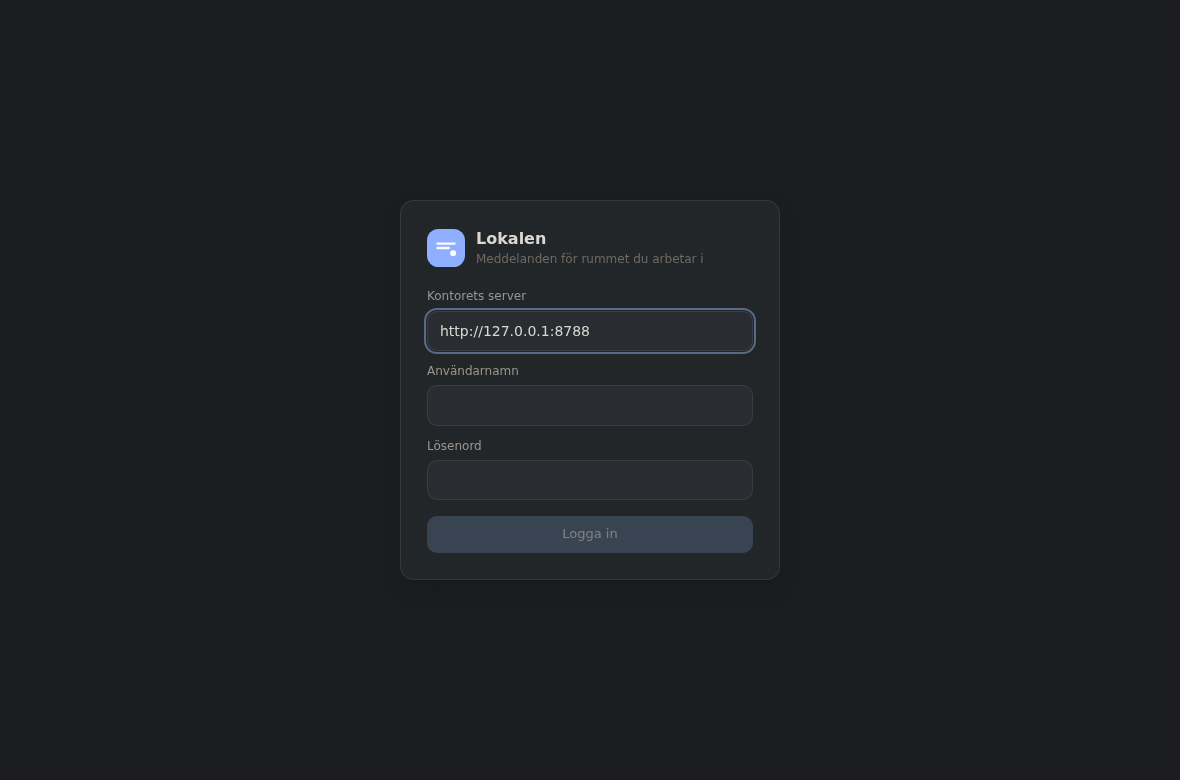
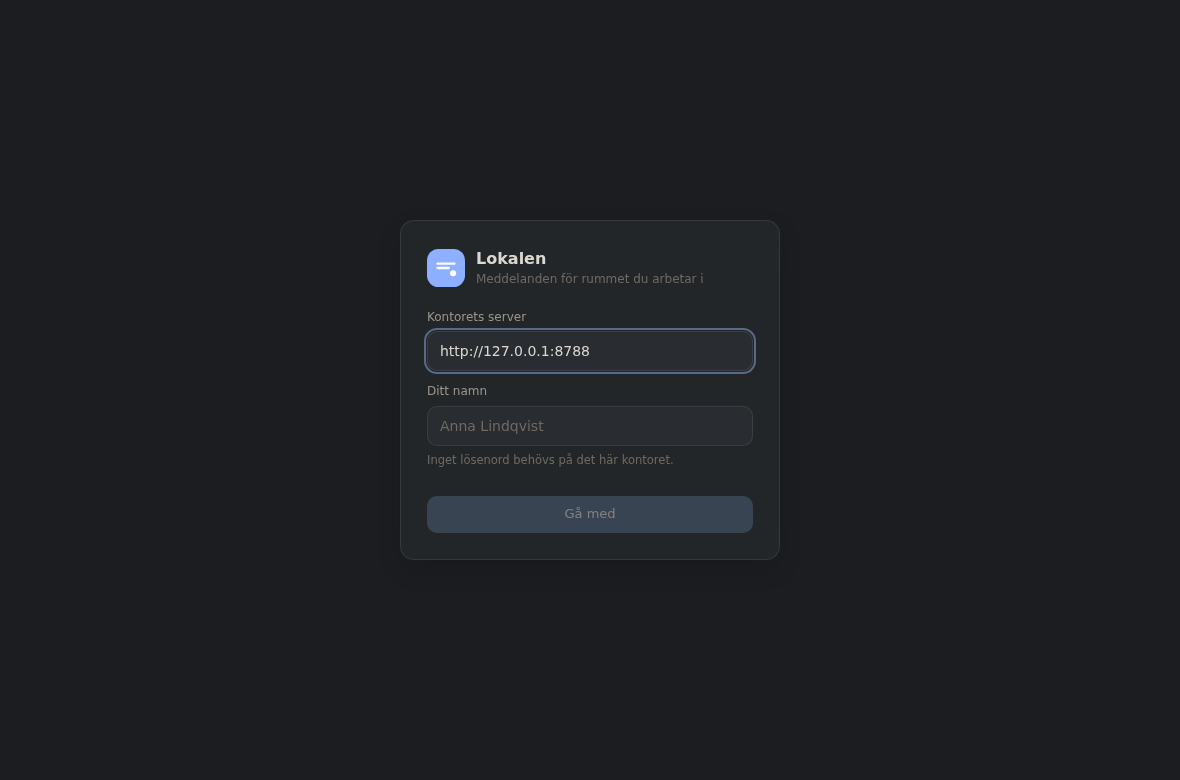
Show the name-only form while the office is still being probed
The sign-in screen asked the server which kind of office it is, then rendered
a username and password form until the answer arrived. Open is the default
mode, so the common case flashed the wrong two fields at everyone for a moment
and kept them on screen entirely whenever the probe did not answer.

It now assumes an open office until told otherwise. The submit path reads the
same value as the rendering does, which the first version of this fix did not:
it rendered a name field while still submitting through the password login,
so joining silently failed.

Changed region(s): [[0.3356, 0.2769, 0.6407, 0.5231], [0.3356, 0.5538, 0.6407, 0.7077], [0.3966, 0.5231, 0.4576, 0.5538]]

diff --git a/lokalen/apps/desktop/src/components/SignIn.tsx b/lokalen/apps/desktop/src/components/SignIn.tsx
@@ -96,14 +96,22 @@ export function SignIn({ onSignedIn }: { onSignedIn: (session: Session) => void 
     }
   }
 
+  /**
+   * Assume an open office until the server says otherwise.
+   *
+   * Open is the default mode, and the probe is asynchronous: defaulting the
+   * other way flashes a username and password field at everyone for a moment,
+   * and leaves the wrong form on screen entirely if the probe never answers.
+   */
+  const open = office?.mode !== "password";
+
   async function submit(event: React.FormEvent) {
     event.preventDefault();
     setBusy(true);
     setError(null);
     try {
       const serverUrl = normaliseServerUrl(server);
-      const result =
-        office?.mode === "open"
+      const result = open
           ? await joinByName(serverUrl, name)
           : mode === "register"
             ? await register(serverUrl, { username, displayName: name || username, password })
@@ -118,7 +126,6 @@ export function SignIn({ onSignedIn }: { onSignedIn: (session: Session) => void 
     }
   }
 
-  const open = office?.mode === "open";
   const canSubmit = open ? name.trim().length > 0 : username.trim().length > 0 && password.length > 0;
 
   return (
@@ -133,7 +140,7 @@ export function SignIn({ onSignedIn }: { onSignedIn: (session: Session) => void 
         </div>
 
         {/* An open office has nothing to choose between. */}
-        {office && !open ? (
+        {!open ? (
           <div className="segmented" role="tablist">
             <button
               type="button"
@@ -213,7 +220,7 @@ export function SignIn({ onSignedIn }: { onSignedIn: (session: Session) => void 
                 required
               />
               <p className="row__hint" style={{ marginTop: 6 }}>
-                Inget lösenord behövs på det här kontoret.
+                {probing ? "Kontrollerar kontoret…" : "Inget lösenord behövs på det här kontoret."}
               </p>
             </div>
           ) : (

diff --git a/lokalen/apps/desktop/e2e/screenshots.spec.ts b/lokalen/apps/desktop/e2e/screenshots.spec.ts
@@ -41,6 +41,8 @@ test("fångar gränssnittet", async ({ browser }) => {
   // The sign-in screen, before anyone is authenticated.
   await page.goto("/");
   await page.getByLabel("Kontorets server").fill(SERVER);
+  // Let the office probe settle so the capture shows the resolved form.
+  await expect(page.getByText("Inget lösenord behövs")).toBeVisible();
   await page.screenshot({ path: `${OUT}/01-sign-in.png` });
 
   await signUp(page, PEOPLE[0]);
